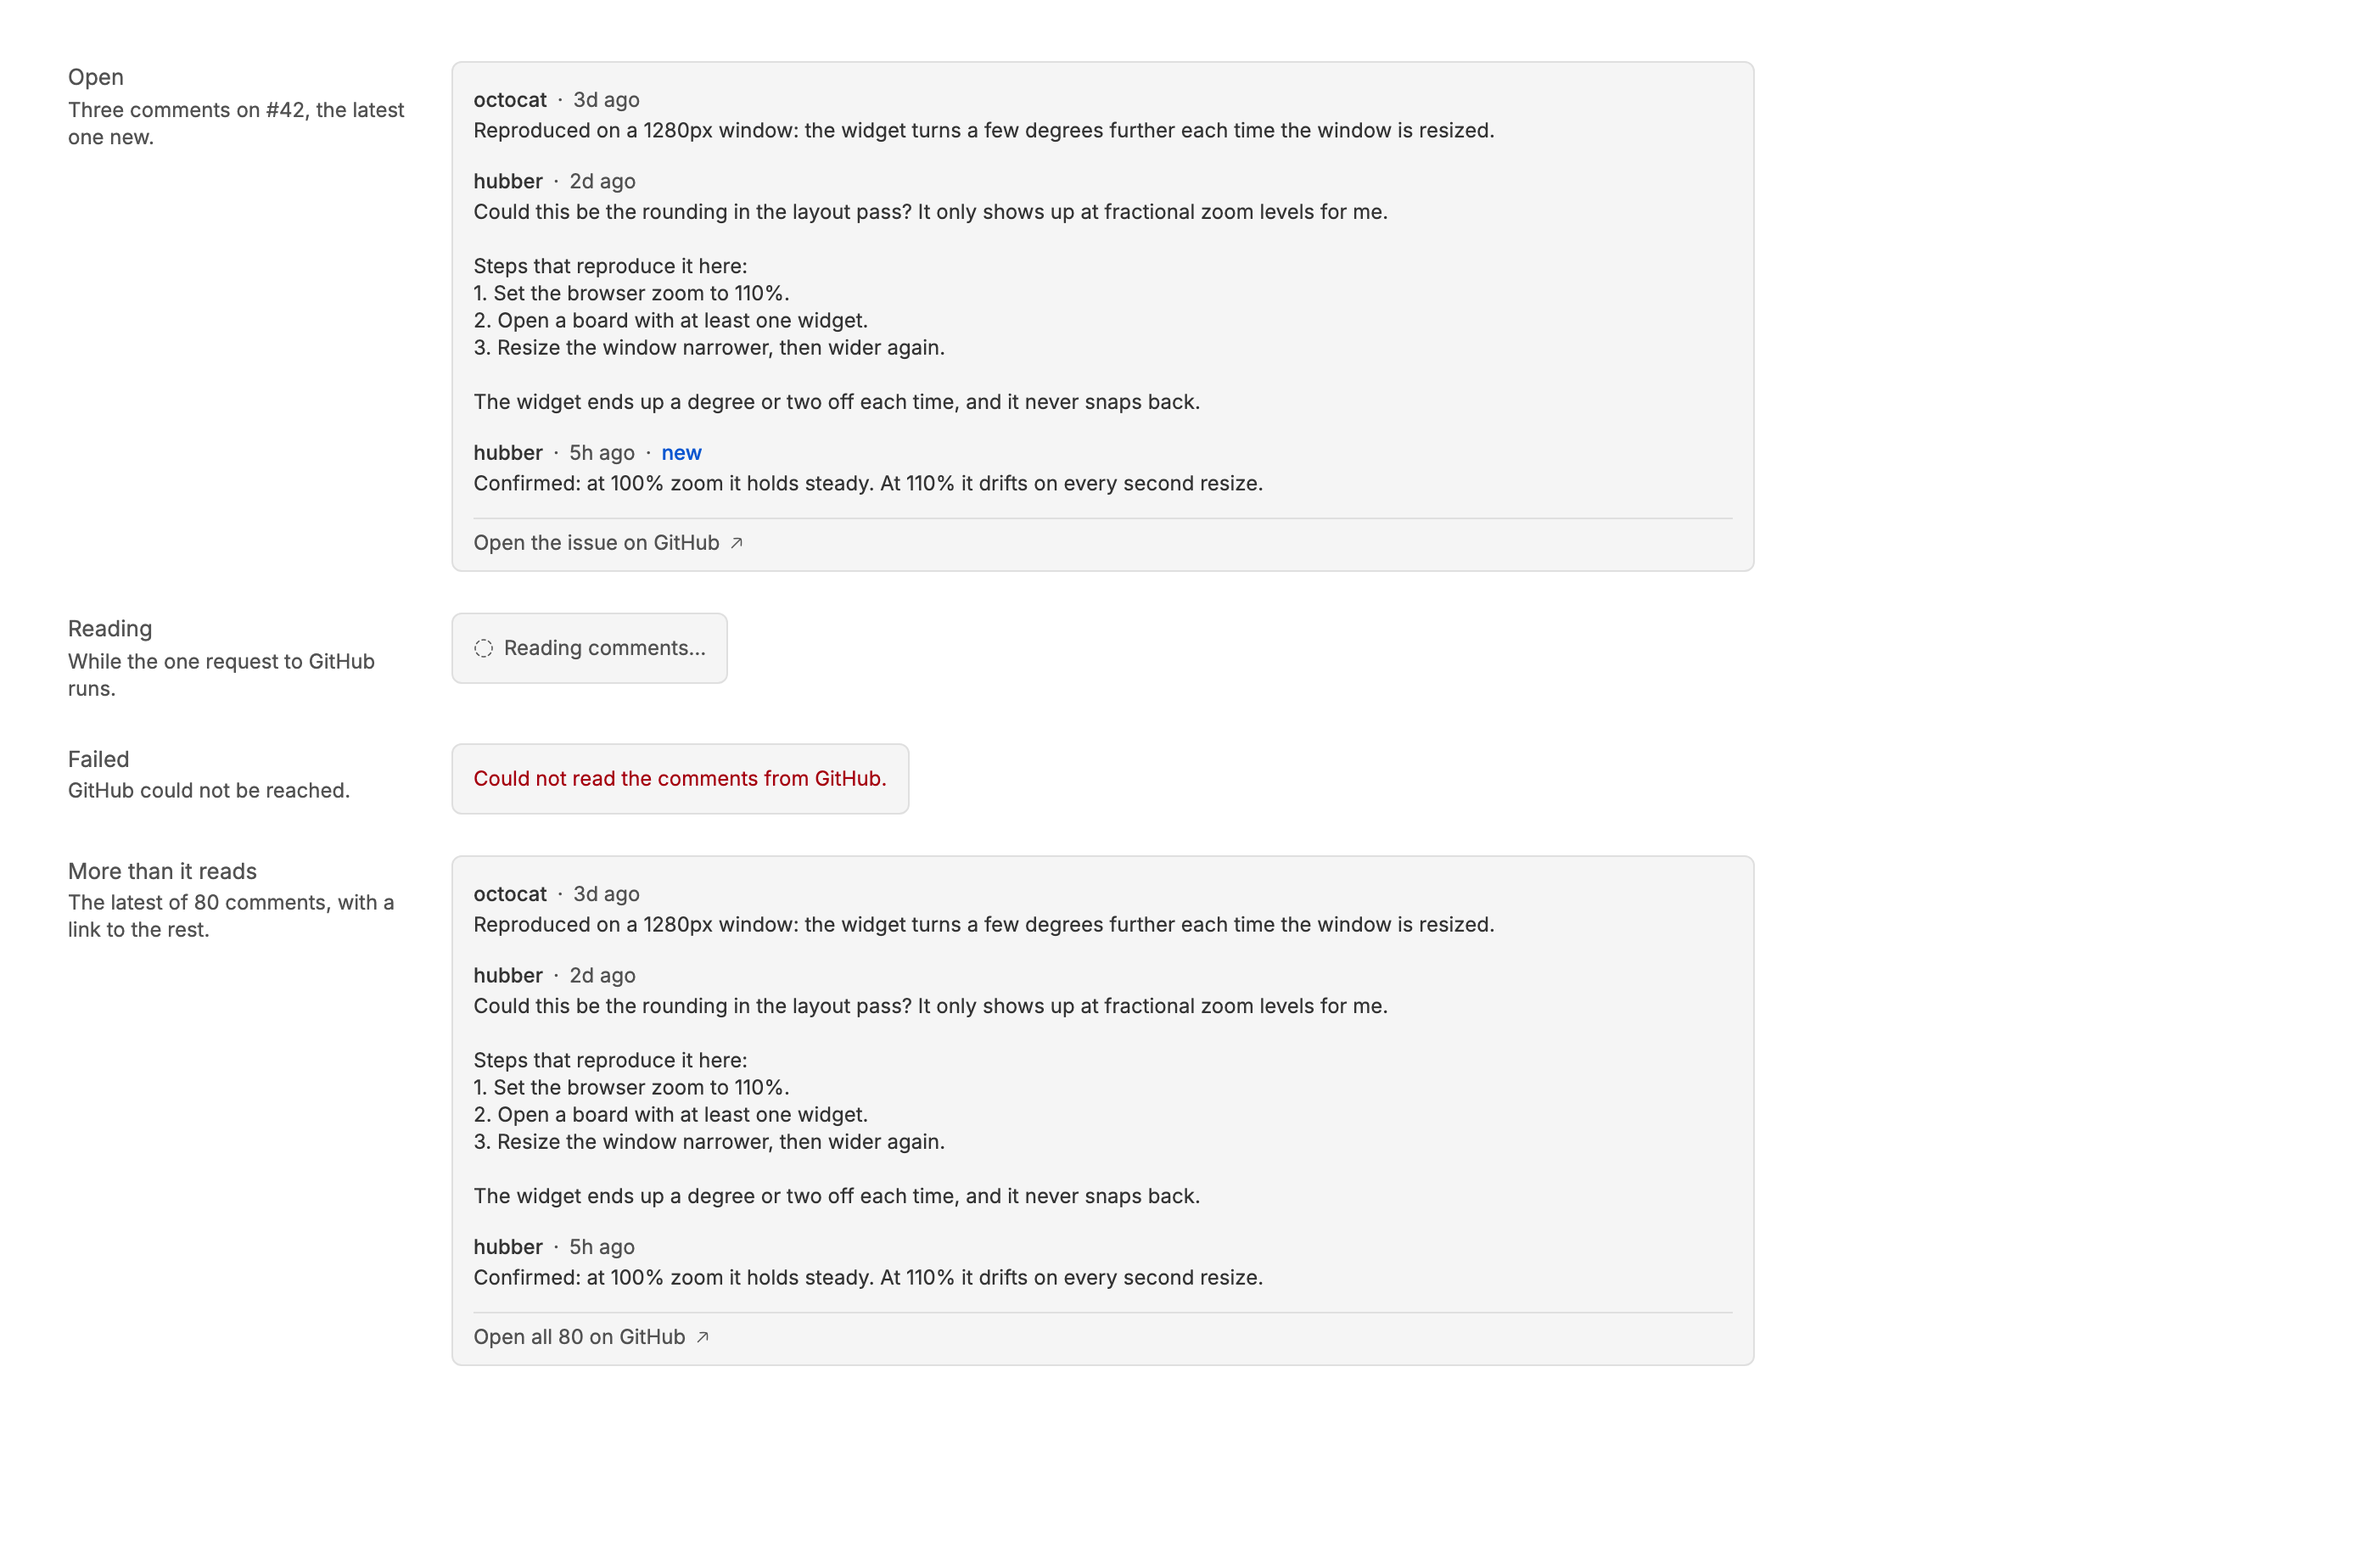
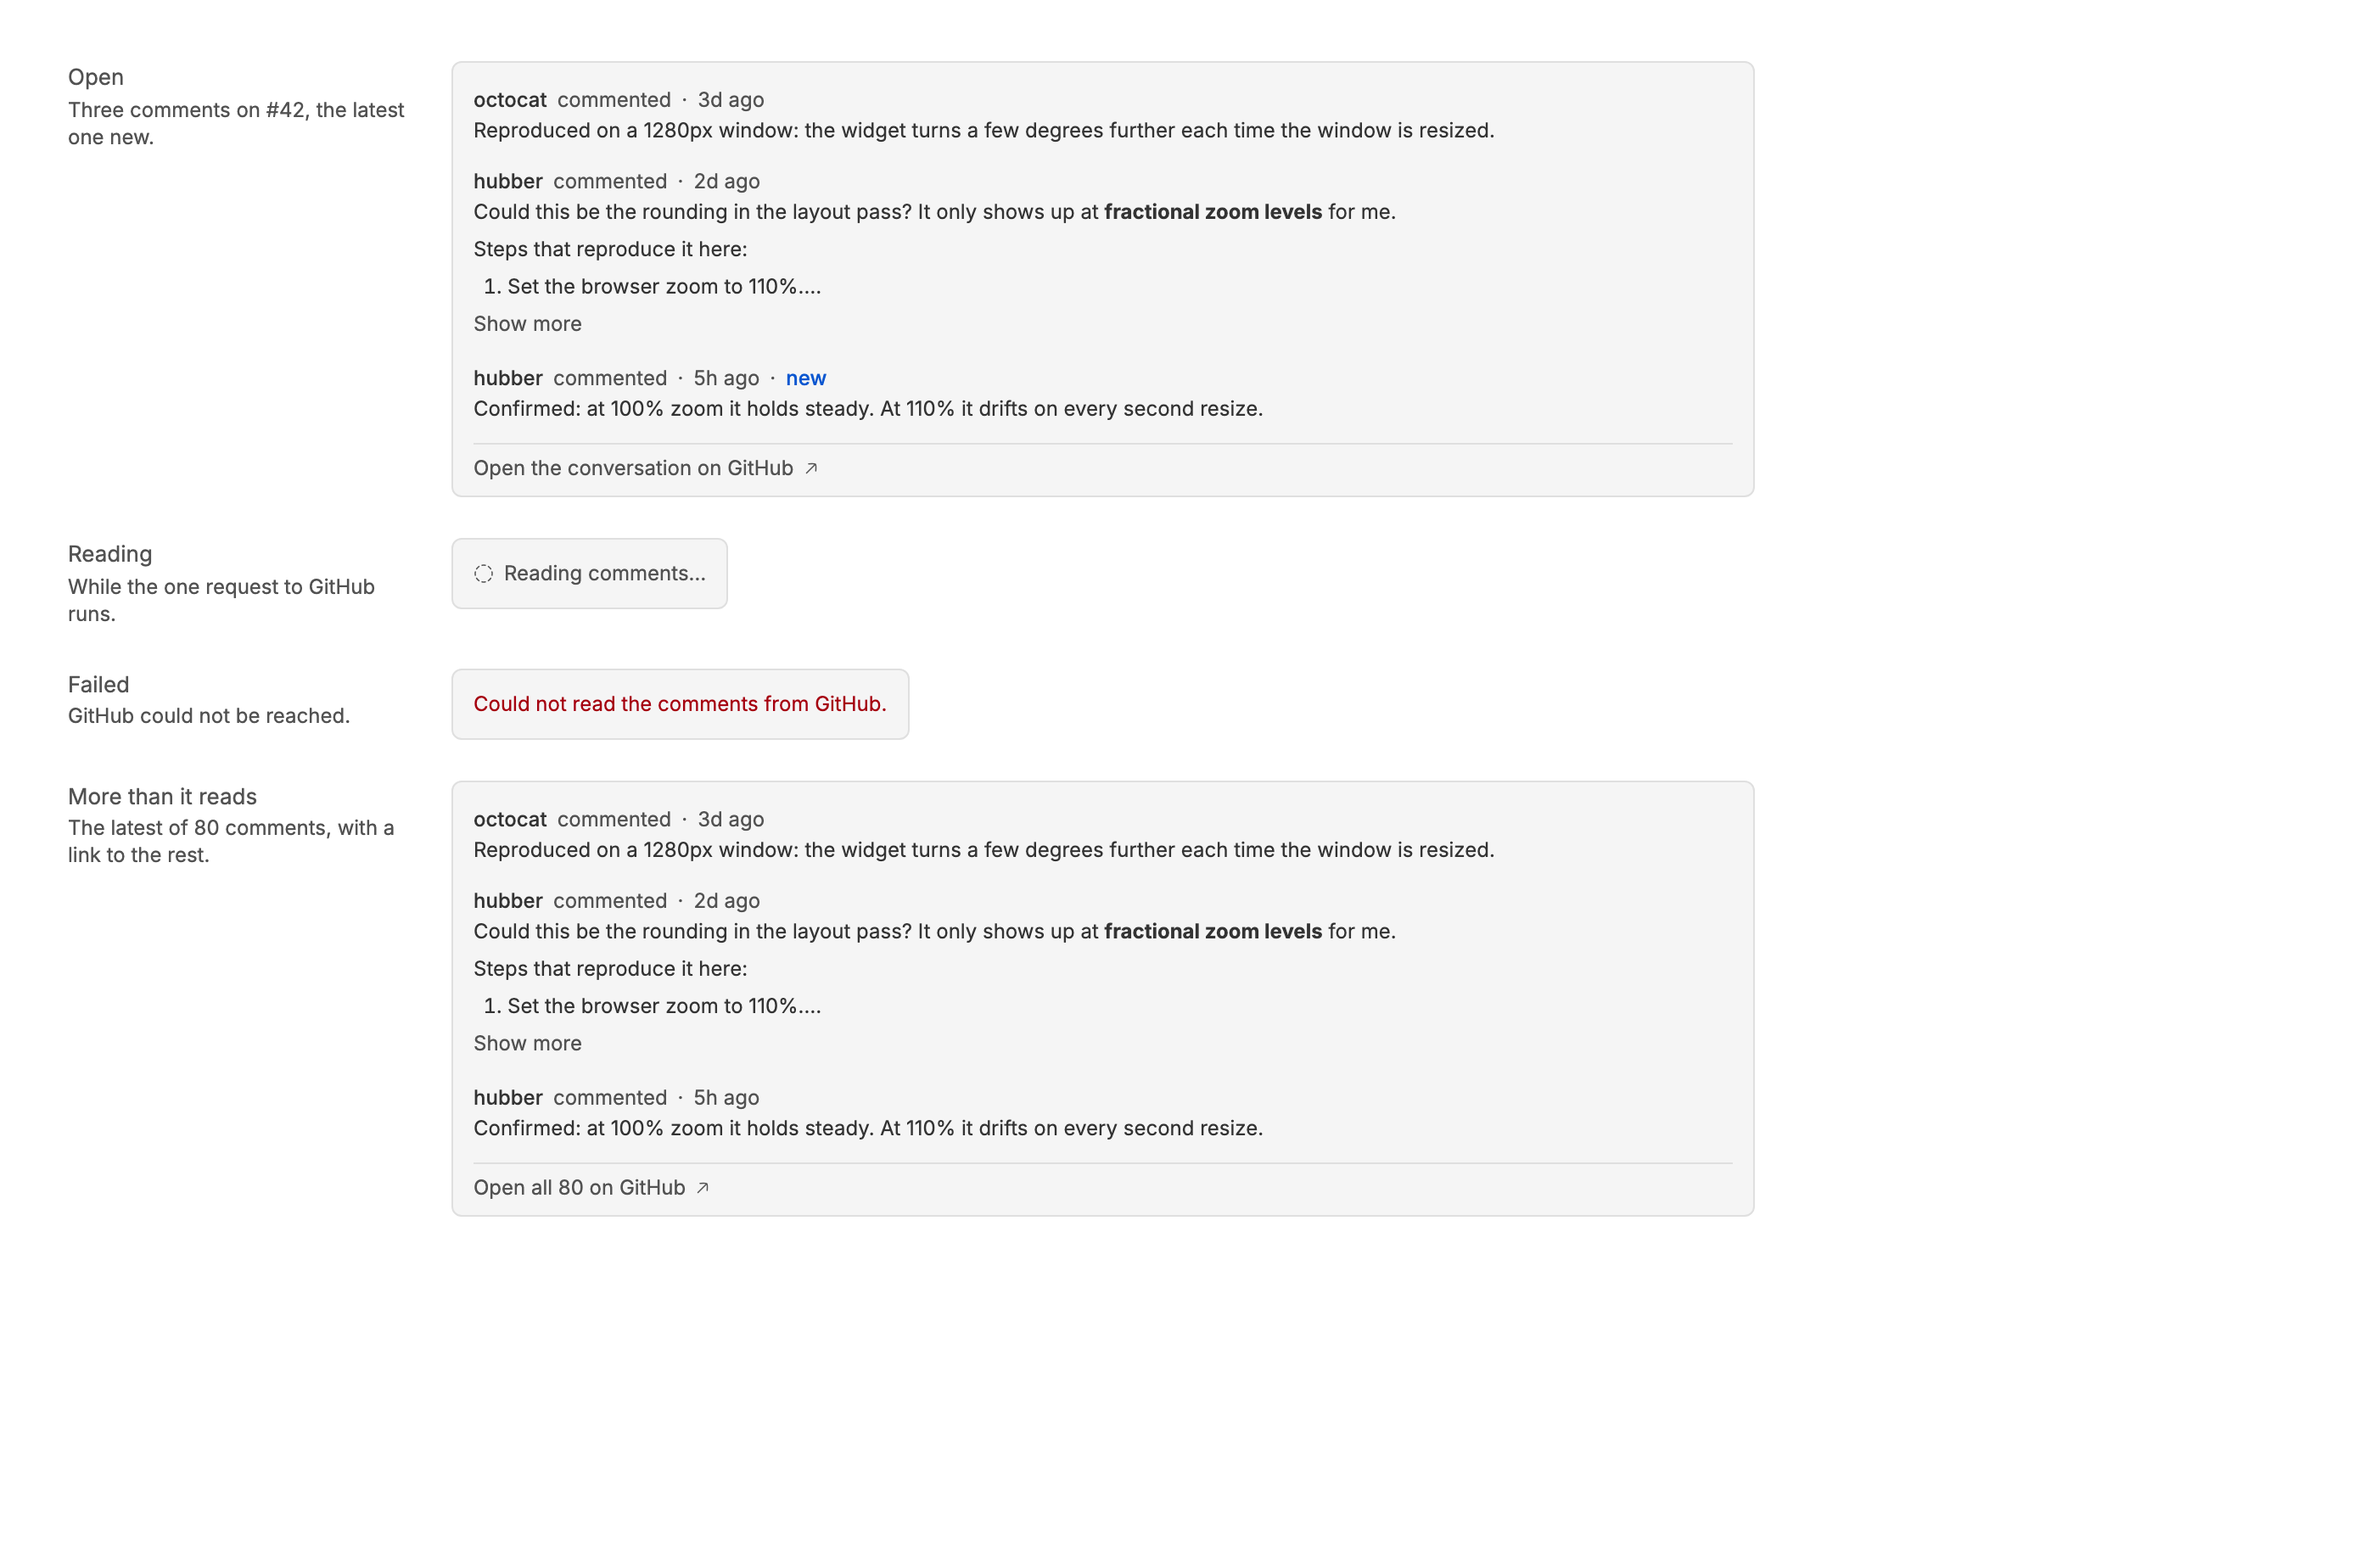
7a997a4 Issue Sweep: draw comments with the shared sweep-ui drawer
danielbachhuber/bb-plugins@7a997a46e9a8d8808c933211fce22baff895059d

diff --git a/issue-sweep/README.md b/issue-sweep/README.md
@@ -40,7 +40,7 @@ What the panel shows when something is wrong: a failed sweep above the last good
 
 ### Comments drawer states
 
-The drawer a row's comment count opens: the issue's latest comments, oldest first, with the ones that arrived since it was last seen marked new. Each opens on GitHub. Then the drawer while it reads, when GitHub fails, and when the issue has more comments than the drawer reads.
+The drawer a row's comment count opens: the issue's latest comments, oldest first, with the ones that arrived since it was last seen marked new. Each is drawn as the Markdown it was written in, and one longer than three lines is cut there, with Show more under it. Then the drawer while it reads, when GitHub fails, and when the issue has more comments than the drawer reads.
 
 ![Comments drawer states](issue-list--comments-drawer-states.png)
 
